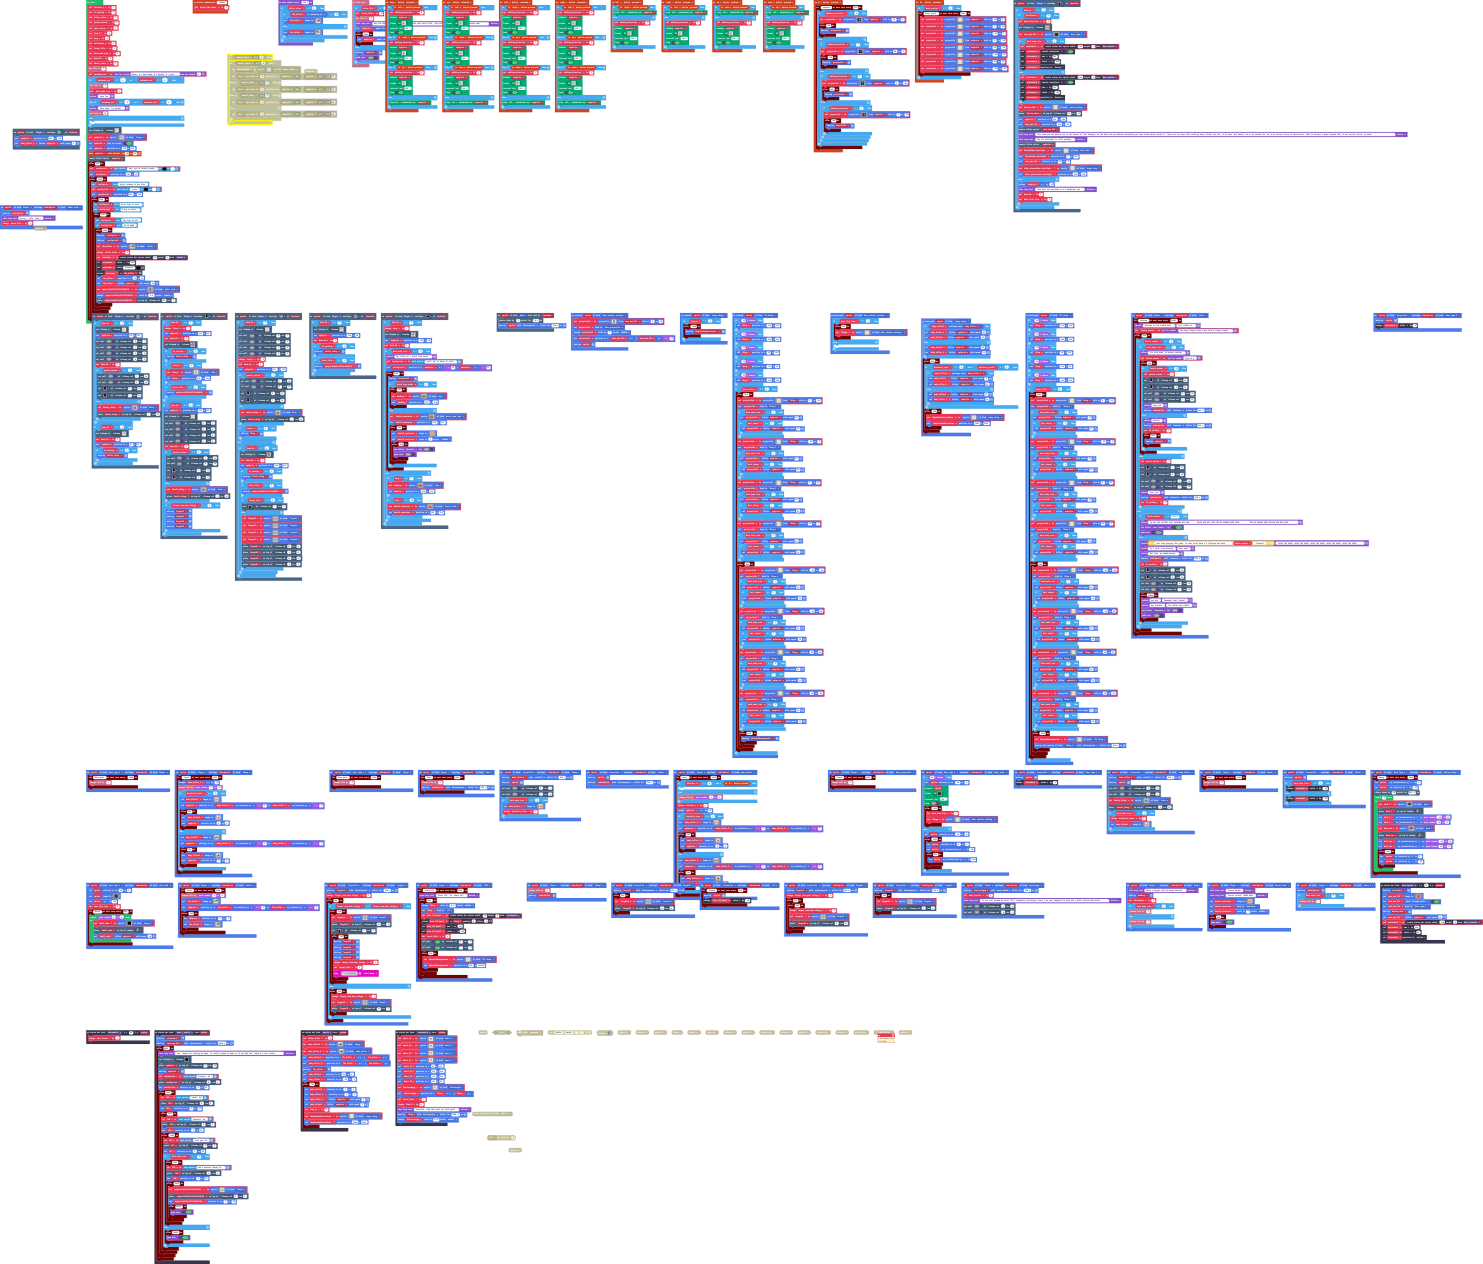
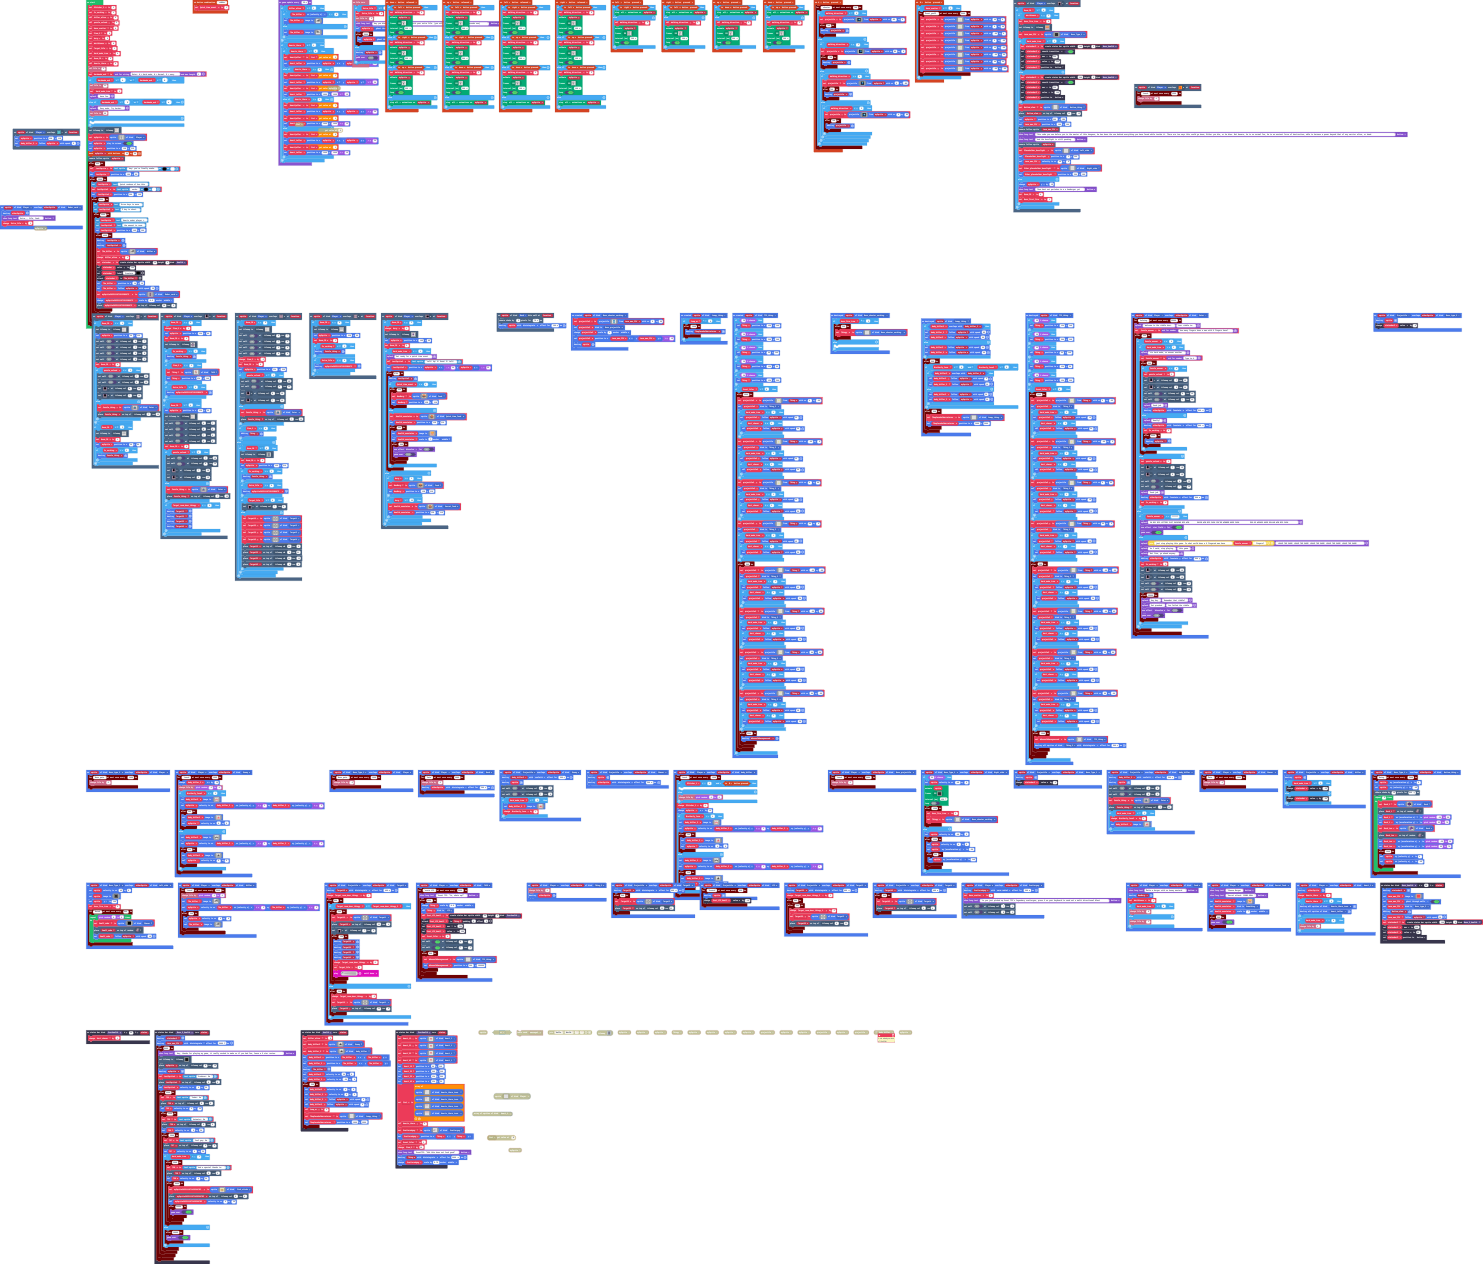
Done

diff --git a/main.ts b/main.ts
@@ -38,6 +38,8 @@ namespace SpriteKind {
     export const Rebor_card = SpriteKind.create()
     export const Heart_left = SpriteKind.create()
     export const Heart_teller = SpriteKind.create()
+    export const Fish_sticks = SpriteKind.create()
+    export const Hearts_there_icon = SpriteKind.create()
 }
 namespace StatusBarKind {
     export const Scorhealth = StatusBarKind.create()
@@ -855,7 +857,7 @@ statusbars.onZero(StatusBarKind.Boss_2_health, function (status) {
                                     ...............................................................................................................................................................
                                     ...............................................................................................................................................................
                                     ...............................................................................................................................................................
-                                    `, SpriteKind.Player)
+                                    `, SpriteKind.Fish_sticks)
                                 tiles.placeOnTile(mySprite20231116T143530078Z, tiles.getTileLocation(8, 0))
                                 mySprite20231116T143530078Z.setVelocity(0, 30)
                                 timer.after(10000, function () {
@@ -1252,6 +1254,81 @@ statusbars.onZero(StatusBarKind.Scorhealth, function (status) {
     Heart_22.setPosition(200, 140)
     Heart_32.setPosition(134, 200)
     Heart_42.setPosition(134, 50)
+    list = [
+    sprites.create(img`
+        22.22...................
+        22222...................
+        .222....................
+        ..2.....................
+        ........................
+        ........................
+        ........................
+        ........................
+        ........................
+        ........................
+        ........................
+        ........................
+        ........................
+        ........................
+        ........................
+        ........................
+        `, SpriteKind.Hearts_there_icon),
+    sprites.create(img`
+        22.22.22.22.............
+        22222.22222.............
+        .222...222..............
+        ..2.....2...............
+        ........................
+        ........................
+        ........................
+        ........................
+        ........................
+        ........................
+        ........................
+        ........................
+        ........................
+        ........................
+        ........................
+        ........................
+        `, SpriteKind.Hearts_there_icon),
+    sprites.create(img`
+        22.22.22.22.22.22.......
+        22222.22222.22222.......
+        .222...222...222........
+        ..2.....2.....2.........
+        ........................
+        ........................
+        ........................
+        ........................
+        ........................
+        ........................
+        ........................
+        ........................
+        ........................
+        ........................
+        ........................
+        ........................
+        `, SpriteKind.Hearts_there_icon),
+    sprites.create(img`
+        22.22.22.22.22.22.22.22.
+        22222.22222.22222.22222.
+        .222...222...222...222..
+        ..2.....2.....2.....2...
+        ........................
+        ........................
+        ........................
+        ........................
+        ........................
+        ........................
+        ........................
+        ........................
+        ........................
+        ........................
+        ........................
+        ........................
+        `, SpriteKind.Hearts_there_icon)
+    ]
+    Hearts_there = 4
     Scatteredgug = sprites.create(img`
         ................................
         ................................
@@ -1374,6 +1451,11 @@ controller.A.onEvent(ControllerButtonEvent.Pressed, function () {
                 }
             }
         }
+    })
+})
+scene.onOverlapTile(SpriteKind.Player, sprites.dungeon.hazardLava0, function (sprite, location) {
+    timer.throttle("Youch", 1500, function () {
+        info.changeLifeBy(-1)
     })
 })
 sprites.onOverlap(SpriteKind.Player, SpriteKind.Killer, function (sprite, otherSprite) {
@@ -4218,6 +4300,11 @@ sprites.onOverlap(SpriteKind.Player, SpriteKind.Rock, function (sprite, otherSpr
 })
 sprites.onOverlap(SpriteKind.Player, SpriteKind.Heart_1, function (sprite, otherSprite) {
     sprites.destroy(otherSprite)
+    Hearts_there += -1
+    if (Hearts_there == 0) {
+        sprites.destroyAllSpritesOfKind(SpriteKind.Hearts_there_icon)
+        sprites.destroyAllSpritesOfKind(SpriteKind.Heart_teller)
+    }
     if (Hard_mode_true == 0) {
         info.changeLifeBy(1)
     }
@@ -6210,6 +6297,7 @@ sprites.onOverlap(SpriteKind.Boss_Type_1, SpriteKind.Player, function (sprite, o
         info.changeLifeBy(-1)
     })
 })
+let Heart_teller: Sprite = null
 let Boss_first_fire = 0
 let Other_placeholder_bossfight: Sprite = null
 let Placeholder_bossfight: Sprite = null
@@ -6233,6 +6321,7 @@ let Thingy: Sprite = null
 let Small_cube: Sprite = null
 let boss_fire_true = 0
 let Scout_lifer = 0
+let list: Sprite[] = []
 let Heart_42: Sprite = null
 let Heart_32: Sprite = null
 let Heart_22: Sprite = null
@@ -6267,6 +6356,7 @@ let The_killer: Sprite = null
 let textSprite2: TextSprite = null
 let textSprite: TextSprite = null
 let mySprite: Sprite = null
+let Hearts_there = 0
 let Room_ID = 0
 let Hard_mode_true = 0
 let Target_life = 0
@@ -6289,11 +6379,11 @@ Worthiness = 0
 Target_life = 1
 Hard_mode_true = 0
 Room_ID = 0
-let Hearts_there = 0
+Hearts_there = 0
 info.setLife(3)
 let Hardmode_ask = game.askForString("Enter: H = Hard mode, N = Normal, E = easy.", 1)
 if (Hardmode_ask == "h" || Hardmode_ask == "H") {
-    info.setLife(1)
+    info.setLife(11)
     Hard_mode_true = 1
     game.splash("Have fun")
 } else if (Hardmode_ask == "E" || Hardmode_ask == "e") {
@@ -6341,8 +6431,9 @@ timer.after(500, function () {
             textSprite.setText("Arrow keys to move")
             textSprite2.setText("Z key to shoot.")
             timer.after(2500, function () {
-                textSprite.setText("And last of all")
-                textSprite2.setText("HE IS HERE")
+                textSprite.setText("Hearts under player =")
+                textSprite2.setText("the amount in room")
+                textSprite2.setPosition(145, 100)
                 timer.after(4000, function () {
                     sprites.destroy(textSprite)
                     sprites.destroy(textSprite2)
@@ -6620,7 +6711,7 @@ timer.after(500, function () {
         })
     })
 })
-game.onUpdateInterval(100, function () {
+game.onUpdateInterval(25, function () {
     if (killer_alive == 1) {
         if (The_killer.vx > 0) {
             The_killer.setImage(img`
@@ -6660,6 +6751,27 @@ game.onUpdateInterval(100, function () {
                 . . . . . . . . . . . . . . . . 
                 . . . . . . . . . . . . . . . . 
                 `)
+        }
+    }
+    if (Hearts_there >= 1) {
+        if (Hearts_there == 4) {
+            Heart_teller = list[3]
+            Heart_teller.setPosition(mySprite.x, mySprite.y + 20)
+        } else if (Hearts_there == 3) {
+            Heart_teller = list[2]
+            Heart_teller.setPosition(mySprite.x, mySprite.y + 20)
+            Heart_teller = list[3]
+            Heart_teller.setPosition(1000, 1000 + 15)
+        } else if (Hearts_there == 2) {
+            Heart_teller = list[1]
+            Heart_teller.setPosition(mySprite.x, mySprite.y + 20)
+            Heart_teller = list[2]
+            Heart_teller.setPosition(1000, 1000 + 15)
+        } else {
+            Heart_teller = list[0]
+            Heart_teller.setPosition(mySprite.x, mySprite.y + 20)
+            Heart_teller = list[1]
+            Heart_teller.setPosition(1000, 1000 + 15)
         }
     }
 })

diff --git a/tilemap.g.ts b/tilemap.g.ts
@@ -647,25 +647,6 @@ namespace myTiles {
 . . . . . . . . . . . . . . . . 
 . . . . . . . . . . . . . . . . 
 `, [myTiles.transparency16], TileScale.Sixteen);
-            case "level18":
[1 lines of base64/hex data omitted]
-....................
-....................
-....................
-....................
-....................
-....................
-....................
-....................
-....................
-....................
-.22............22...
-....................
-....................
-22222222222222222222
-....................
-....................
-`, [myTiles.transparency16,sprites.dungeon.hazardLava0,sprites.dungeon.hazardLava1,sprites.dungeon.floorDark0,sprites.dungeon.floorLight4,sprites.dungeon.floorDark1,sprites.dungeon.floorDark4,sprites.dungeon.floorDark3,sprites.dungeon.floorLightMoss,sprites.dungeon.floorLight2,sprites.castle.rock1,sprites.dungeon.purpleOuterSouth1], TileScale.Sixteen);
             case "level36":
             case "level36":return tiles.createTilemap(hex`1100110001010101010101010101010101010101010101010101010101010101010101010101010101010101010101010101010101010101010101010101010101010101010101010101010101010101010101010101010101010101010101010101010101010101010101010101010101010101010101010101010101010101010101010101010101010101010101010101010101010101010101010101010101010101010101010101010101010101010101010101010101010101010101010101010101010101010101010101010101010101010101010101010101010101010101010101010101010101010101010101010101010101010101010101010101010101010101010101010101010101010101010101010101010101010101010101010101`, img`
 . . . . . . . . . . . . . . . . . 
@@ -686,6 +667,25 @@ namespace myTiles {
 . . . . . . . . . . . . . . . . . 
 . . . . . . . . . . . . . . . . . 
 `, [myTiles.transparency16,sprites.builtin.forestTiles10], TileScale.Sixteen);
+            case "level18":
[1 lines of base64/hex data omitted]
+....................
+....................
+....................
+....................
+....................
+....................
+....................
+....................
+....................
+....................
+.22............22...
+....................
+....................
+22222222222222222222
+....................
+....................
+`, [myTiles.transparency16,sprites.dungeon.hazardLava0,sprites.dungeon.hazardLava1,sprites.dungeon.floorDark0,sprites.dungeon.floorLight4,sprites.dungeon.floorDark1,sprites.dungeon.floorDark4,sprites.dungeon.floorDark3,sprites.dungeon.floorLightMoss,sprites.dungeon.floorLight2,sprites.castle.rock1,sprites.dungeon.purpleOuterSouth1], TileScale.Sixteen);
         }
         return null;
     })
